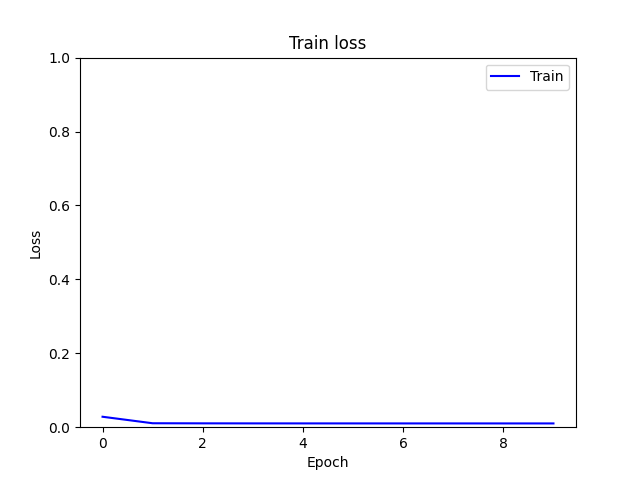
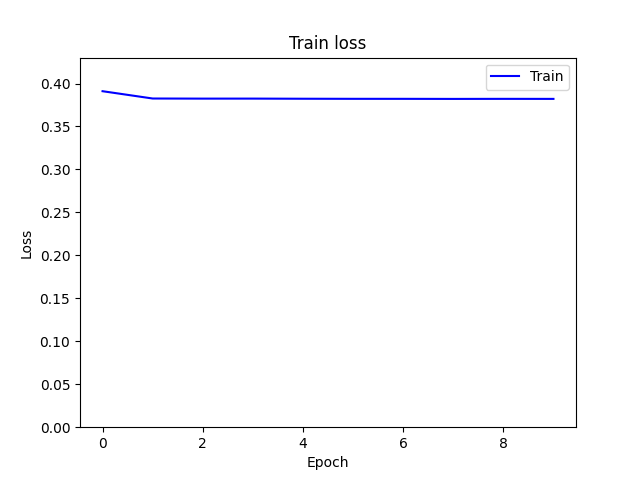
added ability to train on event accumulation

diff --git a/utils.py b/utils.py
@@ -85,15 +85,34 @@ def fftConvolve(frame, psf):
     frame_fft = np.fft.ifftshift(frame_fft)
 
     return frame_fft
-    
+
+#Unormalize
+class UnNormalize(object):
+    def __init__(self, mean, std):
+        self.mean = mean
+        self.std = std
+
+    def __call__(self, tensor):
+        """
+        Args:
+            tensor (Tensor): Tensor image of size (C, H, W) to be normalized.
+        Returns:
+            Tensor: Normalized image.
+        """
+        for t, m, s in zip(tensor, self.mean, self.std):
+            t.mul_(s).add_(m)
+            # The normalize code -> t.sub_(m).div_(s)
+        return tensor
+
 #Create dataset class
-class lenslessEvents(Dataset):
-    def __init__(self, lensless_events_dir, gt_events_dir, num_bins = 3):
+class lenslessEventsVoxel(Dataset):
+    def __init__(self, lensless_events_dir, gt_events_dir, num_bins = 3, transform = None):
         self.lensless_events_dir = lensless_events_dir
         self.gt_events_dir = gt_events_dir
         self.num_bins = num_bins
         self.width = 346
         self.height = 260
+        self.transform = transform
 
         #Get list of event windows
         _, _, self.lensless_event_files = next(os.walk(self.lensless_events_dir))
@@ -118,12 +137,13 @@ class lenslessEvents(Dataset):
         lensless_voxel = event_transforms.ToVoxelGrid(self.num_bins)(lensless_event_data)
 
         #Normalize voxel 
-        #lensless_voxel -= lensless_voxel.min()
-        #lensless_voxel /= lensless_voxel.max()
+        # lensless_voxel -= lensless_voxel.mean()
+        # lensless_voxel /= lensless_voxel.std()
 
         #Convert to tensor
         lensless_voxel = torch.as_tensor(lensless_voxel, dtype=torch.float32)
-
+      
+      
         ##### Get GT voxel grid #####
         #Create voxel grid from events
         gt_data = np.load(os.path.join(self.gt_events_dir, self.gt_event_files[idx]))
@@ -136,10 +156,79 @@ class lenslessEvents(Dataset):
         gt_voxel = event_transforms.ToVoxelGrid(self.num_bins)(gt_event_data)
 
         #Normalize voxel 
-        #gt_voxel -= gt_voxel.min()
-        #gt_voxel /= gt_voxel.max()
+        # gt_voxel -= gt_voxel.mean()
+        # gt_voxel /= gt_voxel.std()
 
         #Convert to tensor
         gt_voxel = torch.as_tensor(gt_voxel, dtype=torch.float32)
 
+        #Apply transforms
+        if self.transform:
+            lensless_voxel = self.transform(lensless_voxel)
+            gt_voxel = self.transform(gt_voxel)
+
         return lensless_voxel, gt_voxel
+
+#Create dataset class
+class lenslessEvents(Dataset):
+    def __init__(self, lensless_events_dir, gt_events_dir, num_bins = 3, transform = None):
+        self.lensless_events_dir = lensless_events_dir
+        self.gt_events_dir = gt_events_dir
+        self.num_bins = num_bins
+        self.width = 346
+        self.height = 260
+        self.transform = transform
+
+        #Get list of event windows
+        _, _, self.lensless_event_files = next(os.walk(self.lensless_events_dir))
+        self.lensless_event_files.sort()
+        
+        _, _, self.gt_event_files = next(os.walk(self.gt_events_dir))
+        self.gt_event_files.sort()
+
+    def __len__(self):
+        return len(self.lensless_event_files)
+
+    def __getitem__(self, idx):
+        ##### Create Lensless #####
+        #Load window
+        lensless_data = np.load(os.path.join(self.lensless_events_dir, self.lensless_event_files[idx]))
+        t = lensless_data['t']
+        x = lensless_data['x']
+        y = lensless_data['y']
+        p = lensless_data['p']
+
+        lensless_events = np.zeros((1, self.height, self.width))
+        for i in range(t.shape[0]):
+            lensless_events[0][y[i]][x[i]] = p[i]
+
+        #Convert to tensor
+        lensless_events = torch.as_tensor(lensless_events, dtype=torch.float32)
+
+
+        ##### Get GT voxel grid #####
+        #Create voxel grid from events
+        gt_data = np.load(os.path.join(self.gt_events_dir, self.gt_event_files[idx]))
+        t = gt_data['t']
+        x = gt_data['x']
+        y = gt_data['y']
+        p = gt_data['p']
+
+
+        gt_events = np.zeros((1, self.height, self.width))
+        for i in range(t.shape[0]):
+            gt_events[0][y[i]][x[i]] = p[i] 
+
+        
+
+        #Convert to tensor
+        gt_events = torch.as_tensor(gt_events, dtype=torch.float32)
+
+        
+
+        #Apply transforms
+        if self.transform:
+            lensless_events = self.transform(lensless_events)
+            gt_events = self.transform(gt_events)
+
+        return lensless_events, gt_events

diff --git a/train.py b/train.py
@@ -1,6 +1,6 @@
 #import os
 import torch
-#from torchvision import transforms
+from torchvision import transforms
 #import torchvision.transforms.functional as F
 import numpy as np
 from model.unet import UNet
@@ -8,7 +8,7 @@ from torch.utils.data import DataLoader
 import matplotlib.pyplot as plt
 #from PIL import Image
 #import cv2
-from utils import lenslessEvents
+from utils import lenslessEventsVoxel, lenslessEvents
 
 
 #Set paths
@@ -19,16 +19,17 @@ gt_path = 'data/lensless_videos_dataset/gt_events'
 device = torch.device('cuda' if torch.cuda.is_available() else 'cpu')
 print("[INFO] Using device: ", device)
 
+#Transforms
+transform = None
+# mean = (0, 0, 0)
+# std = (0.2, 0.2, 0.2)
+#transform = transforms.Compose([transforms.Normalize(mean, std)])
+#unorm = UnNormalize(mean, std)
+
 #Create datasets
 print("[INFO] Loading dataset and dataloader...")
-train_data = lenslessEvents(lensless_path, gt_path)
-
-#Transforms
-# mean = (0.5, 0.5, 0.5)
-# std = (0.2, 0.2, 0.2)
-# transform = transforms.Compose([transforms.ConvertImageDtype(torch.float),
-#                                 transforms.Normalize(mean, std)])
-# unorm = UnNormalize(mean, std)
+train_data = lenslessEventsVoxel(lensless_path, gt_path, transform = transform)
+#train_data = lenslessEvents(lensless_path, gt_path)
 
 #Create dataloaders
 trainloader = DataLoader(train_data, batch_size=1, shuffle=True)
@@ -77,21 +78,13 @@ for epoch in range(epochs):
     # with torch.no_grad():
     #     for data in testloader:
     #         #Get image and ground truth
-    #         noisy, gt = data[0].to(device), data[1].to(device)
+    #         lensless, gt = data[0].to(device), data[1].to(device)
 
     #         #Forward 
-    #         output = net(noisy)
+    #         output = net(lensless)
     #         loss = criterion(output, gt)
     #         test_running_loss += loss.item()
 
-    #         #Compute PSNR
-    #         image = unorm(output.detach().cpu()[0])
-    #         gt_image = unorm(gt.detach().cpu()[0])
-    #         image = saturateImage(image)
-    #         gt_image = saturateImage(gt_image)
-    #         test_running_psnr += PSNR(gt_image, image)
-
-    #cv2.imwrite('results/' + str(epoch+1).zfill(3) + '.jpeg', image)
 
     #Print Statistics
     train_loss.append(train_running_loss / len(trainloader))
@@ -100,18 +93,24 @@ for epoch in range(epochs):
     print("[%3d / %3d] Train loss: %.6f" % (epoch + 1, epochs, 
                                             train_running_loss / len(trainloader)))
 
-#Print voxels
-lensless = np.transpose(lensless[0].cpu().detach().numpy(), (1,2,0))
-gt = np.transpose(gt[0].cpu().detach().numpy(), (1,2,0))
-output = np.transpose(output[0].cpu().detach().numpy(), (1,2,0))
+    # lensless = np.transpose(lensless[0][0].cpu().detach().numpy(), (1,2,0))
+    # gt = np.transpose(gt[0][0].cpu().detach().numpy(), (1,2,0))
+    # output = np.transpose(output[0][0].cpu().detach().numpy(), (1,2,0))
 
-   
-fig0, ax0 = plt.subplots(1,3)
-ax0[0].imshow(lensless)
-ax0[1].imshow(gt)
-ax0[2].imshow(output)
+    lensless = lensless[0][0].cpu().detach().numpy()
+    gt = gt[0][0].cpu().detach().numpy()
+    output = output[0][0].cpu().detach().numpy()
 
-plt.show()
+    
+    fig0, ax0 = plt.subplots(1,3)
+    ax0[0].imshow(lensless)
+    ax0[0].set_title('Lensless')
+    ax0[1].imshow(gt)
+    ax0[1].set_title('Groundtruth')
+    ax0[2].imshow(output)
+    ax0[2].set_title('Output')
+    fig0.savefig('results/'+str(epoch+1).zfill(3) + '_comparisons.png')
+
                                                             
 
 #Save trained model
@@ -125,5 +124,5 @@ ax1.legend()
 ax1.set_title("Train loss")
 ax1.set_xlabel("Epoch")
 ax1.set_ylabel("Loss")
-ax1.set_ylim(top = 1, bottom= 0)
+ax1.set_ylim(top = max(train_loss)*1.1 , bottom= 0)
 fig1.savefig('plots/losses.png')

diff --git a/simPSF.py b/simPSF.py
@@ -26,7 +26,8 @@ if __name__ == "__main__":
     single_name = video_name.split('.')
     result_name = results_dir + single_name[0] + '.avi'
     cropped_name = cropped_dir + single_name[0] + '.avi'
-    psf_path = 'data/psf/psf_16bit_baffle.tif'
+    # psf_path = 'data/psf/psf_16bit_baffle.tif'
+    psf_path = 'data/psf/pinholePSF.png'
 
     
     #Print arguments
@@ -73,6 +74,8 @@ if __name__ == "__main__":
             #Compute convolution
             lensless = fftConvolve(frame/255., psf)
             lensless = np.uint8(lensless*255)
+
+            cv2.imwrite("lensless.png", lensless)
 
             #Create video with write
             conv_out.write(lensless)
